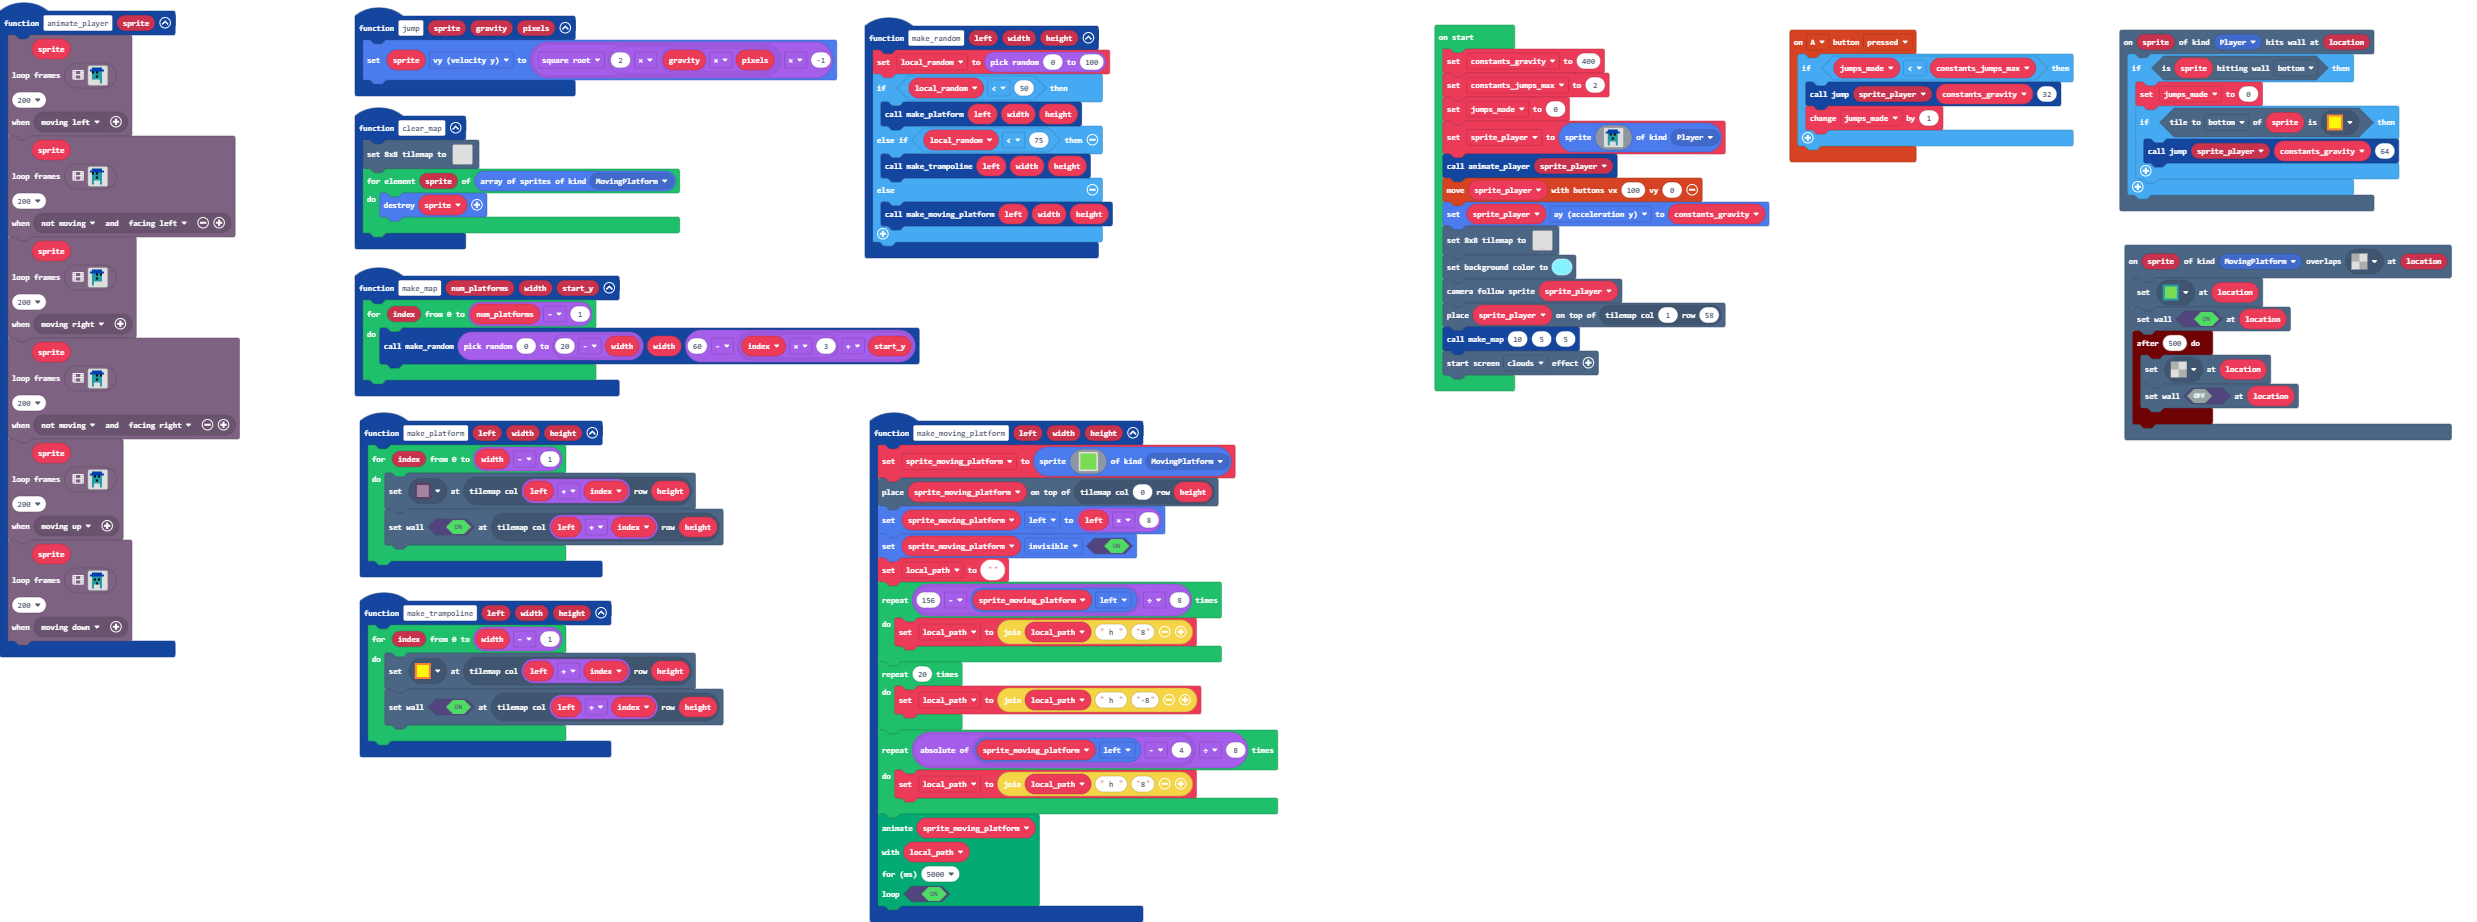
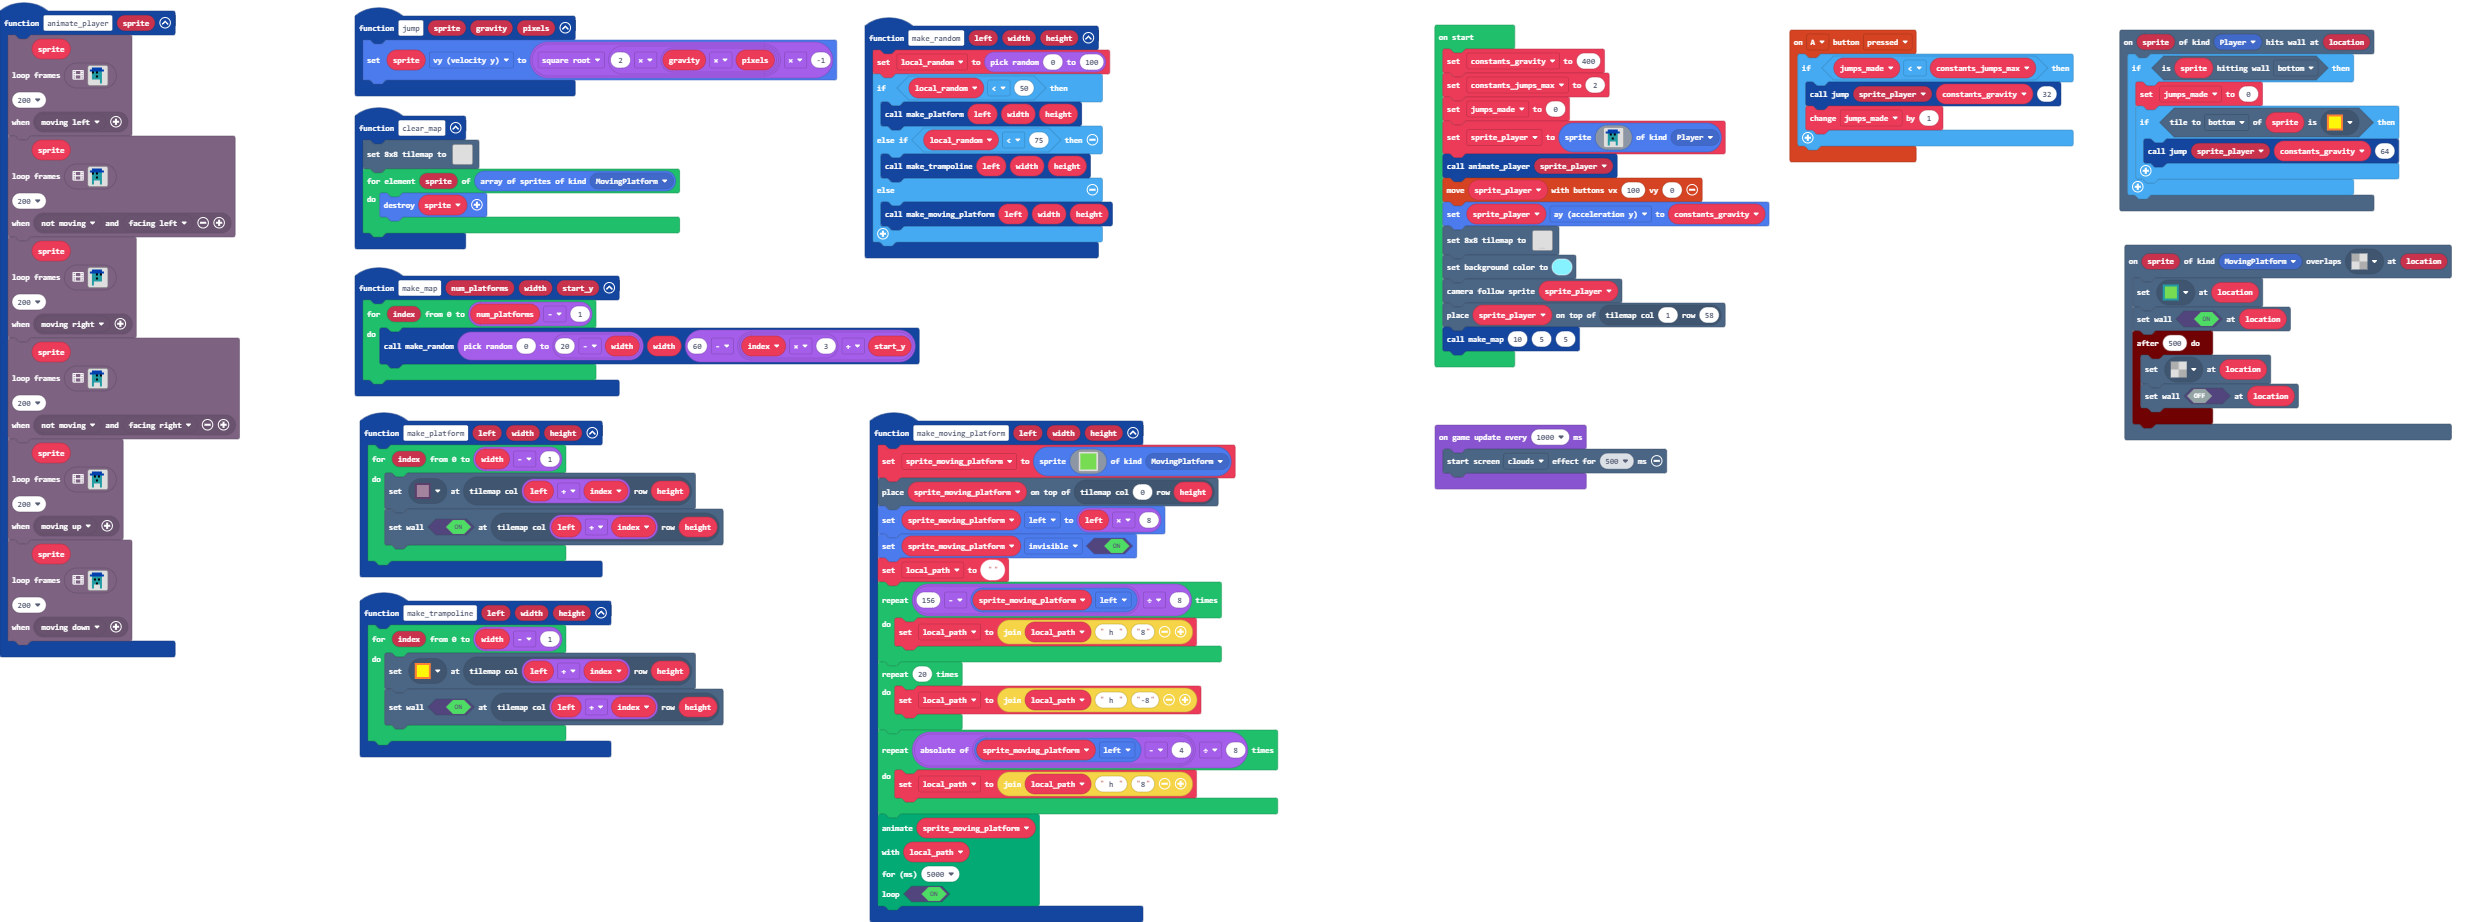
Reduce clouds effect

Changed region(s): [[0.5595, 0.4555, 0.6839, 0.5466], [0.5595, 0.3644, 0.6528, 0.4252]]

diff --git a/main.ts b/main.ts
@@ -346,4 +346,6 @@ scene.setBackgroundColor(9)
 scene.cameraFollowSprite(sprite_player)
 tiles.placeOnTile(sprite_player, tiles.getTileLocation(1, 58))
 make_map(10, 5, 5)
-effects.clouds.startScreenEffect()
+game.onUpdateInterval(1000, function () {
+    effects.clouds.startScreenEffect(500)
+})
